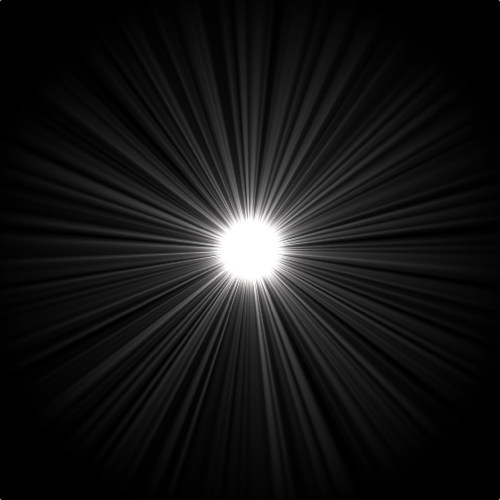
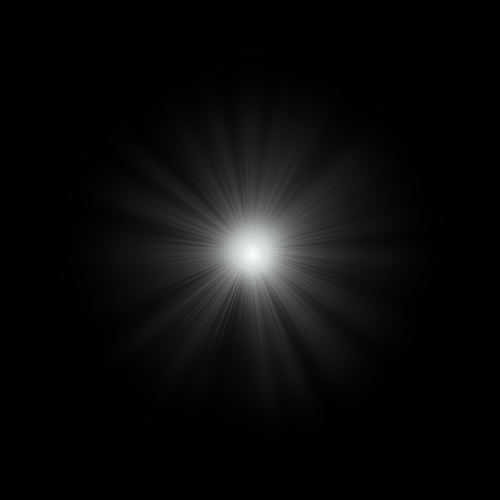
Renderer|FX: Revised “star” flare iamge

diff --git a/doomsday/client/src/render/fx/lensflares.cpp b/doomsday/client/src/render/fx/lensflares.cpp
@@ -379,8 +379,8 @@ DENG2_PIMPL(LensFlares)
             typedef Rangef Rgf;
             static Spec const specs[] = {
                 //  axisPos id                   color                          size    intensity min/max              radius min/max          angle min/max
-                {   1,      FlareData::Burst,    Vector4f(1, 1, 1, 1),          1,      Rgf(1.0e-8, 1.0e-6), Rgf(),    Rgf(), Rgf(/*.5f, .8f*/),   Rgf(), Rgf() },
-                //{   1,      FlareData::Star,     Vector4f(1, 1, 1, 1),          1,      Rgf(1.0e-6, 1.0e-5), Rgf(),    Rgf(.5f, .7f), Rgf(),   Rgf(), Rgf() },
+                {   1,      FlareData::Burst,    Vector4f(1, 1, 1, 1),          1,      Rgf(1.0e-8, 1.0e-6), Rgf(),    Rgf(), Rgf(.5f, .8f),   Rgf(), Rgf() },
+                {   1,      FlareData::Star,     Vector4f(1, 1, 1, 1),          1,      Rgf(1.0e-6, 1.0e-5), Rgf(),    Rgf(.5f, .7f), Rgf(),   Rgf(), Rgf() },
                 {   1,      FlareData::Exponent, Vector4f(1, 1, 1, 1),          2.5f,   Rgf(1.0e-6, 1.0e-5), Rgf(),    Rgf(.1f, .2f), Rgf(),   Rgf(), Rgf() },
 
                 {  .8f,     FlareData::Halo,     Vector4f(1, 1, 1, .5f),        1,      Rgf(5.0e-6, 5.0e-5), Rgf(),    Rgf(.5f, .7f), Rgf(),   Rgf(), Rgf(30, 60) },
